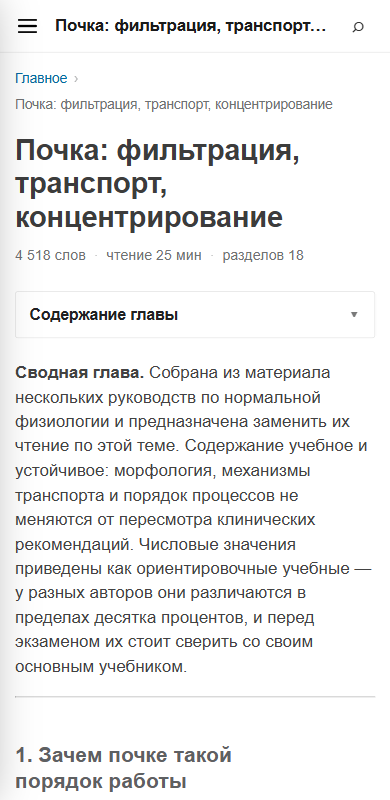
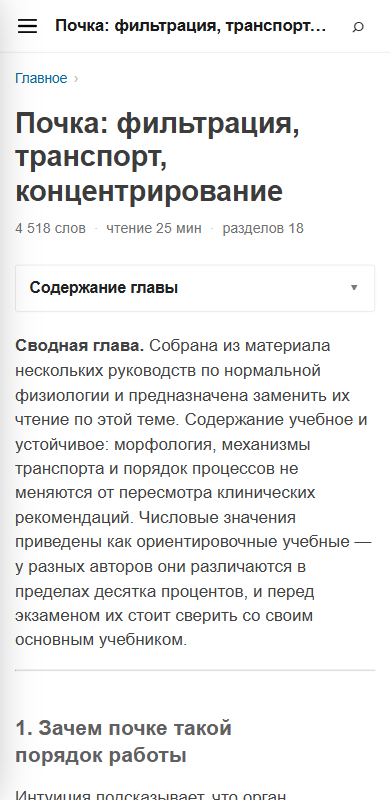
Сводные главы: обновление сайта

Changed region(s): [[0.0308, 0.125, 0.9538, 0.8438], [0.0308, 0.875, 0.7385, 1.0]]

diff --git a/css/основа.css b/css/основа.css
@@ -500,6 +500,13 @@ main input[type="search"]:focus{ outline: 2px solid var(--ob-accent); outline-of
    остальные сеткой. Прежняя редакция печатала список коммитов строчками без
    картинок, и владелец назвал это дословно: «Что это за убожество? А где
    картинки? Каждая должна быть отдельной записью с картинкой!» */
+/* На телефоне крошки повторяют заголовок, который стоит строкой ниже: «Главное ›
+   Почка: фильтрация, транспорт, концентрирование», а под ним тот же текст
+   кеглем 32. Оставляем только путь наверх, сам себя пункт не называет. */
+@media (max-width: 700px){
+  :root .ob-crumb-now, :root .ob-crumbs .ob-sep:last-of-type{ display: none; }
+}
+
 .gl-glavnaya{ margin: 0 0 2em; }
 
 /* Префикс `:root` — не украшение. Облики грузятся ПОСЛЕ основы, и у них есть

diff --git a/css/сайты/vox.css b/css/сайты/vox.css
@@ -49,6 +49,12 @@
   box-shadow: inset 0 -.32em 0 rgba(242,182,64,.55);
 }
 :root .ob-article a:hover{ box-shadow: inset 0 -1.1em 0 rgba(242,182,64,.55); }
+/* Сноска на источник — НЕ ссылка в тексте: жёлтая заливка на надстрочном
+   `[1, с. ?]` выглядит как ошибка вёрстки, особенно когда сноска переносится
+   на следующую строку и заливка рвётся пополам. Поймано снимком. */
+:root .ob-article sup a, :root .ob-article sup a:hover{
+  box-shadow: none; color: #8a6a12; white-space: nowrap;
+}
 :root .ob-article h2{ font-family: "DM Sans", system-ui, sans-serif;
   letter-spacing: -.01em; margin-top: 2.2em; }
 :root .ob-article figcaption{

diff --git a/css/сайты/guardian.css b/css/сайты/guardian.css
@@ -47,6 +47,10 @@
 :root .ob-article h2{
   border-top: 1px solid #121212; padding-top: 10px; margin-top: 2em;
 }
+/* У ПЕРВОГО раздела линейки нет: над ним уже стоит линейка, отбивающая лид, и
+   две параллельные черты с пустотой между ними читаются как забытая пустая
+   врезка. Поймано снимком — числа об этом ничего не говорили. */
+:root .ob-article h2:first-of-type{ border-top: 0; padding-top: 0; margin-top: 1.2em; }
 :root .ob-article a{ text-decoration: none; border-bottom: 1px solid rgba(199,70,0,.35); }
 :root .ob-article a:hover{ border-bottom-color: #c74600; }
 :root .ob-article figcaption{
